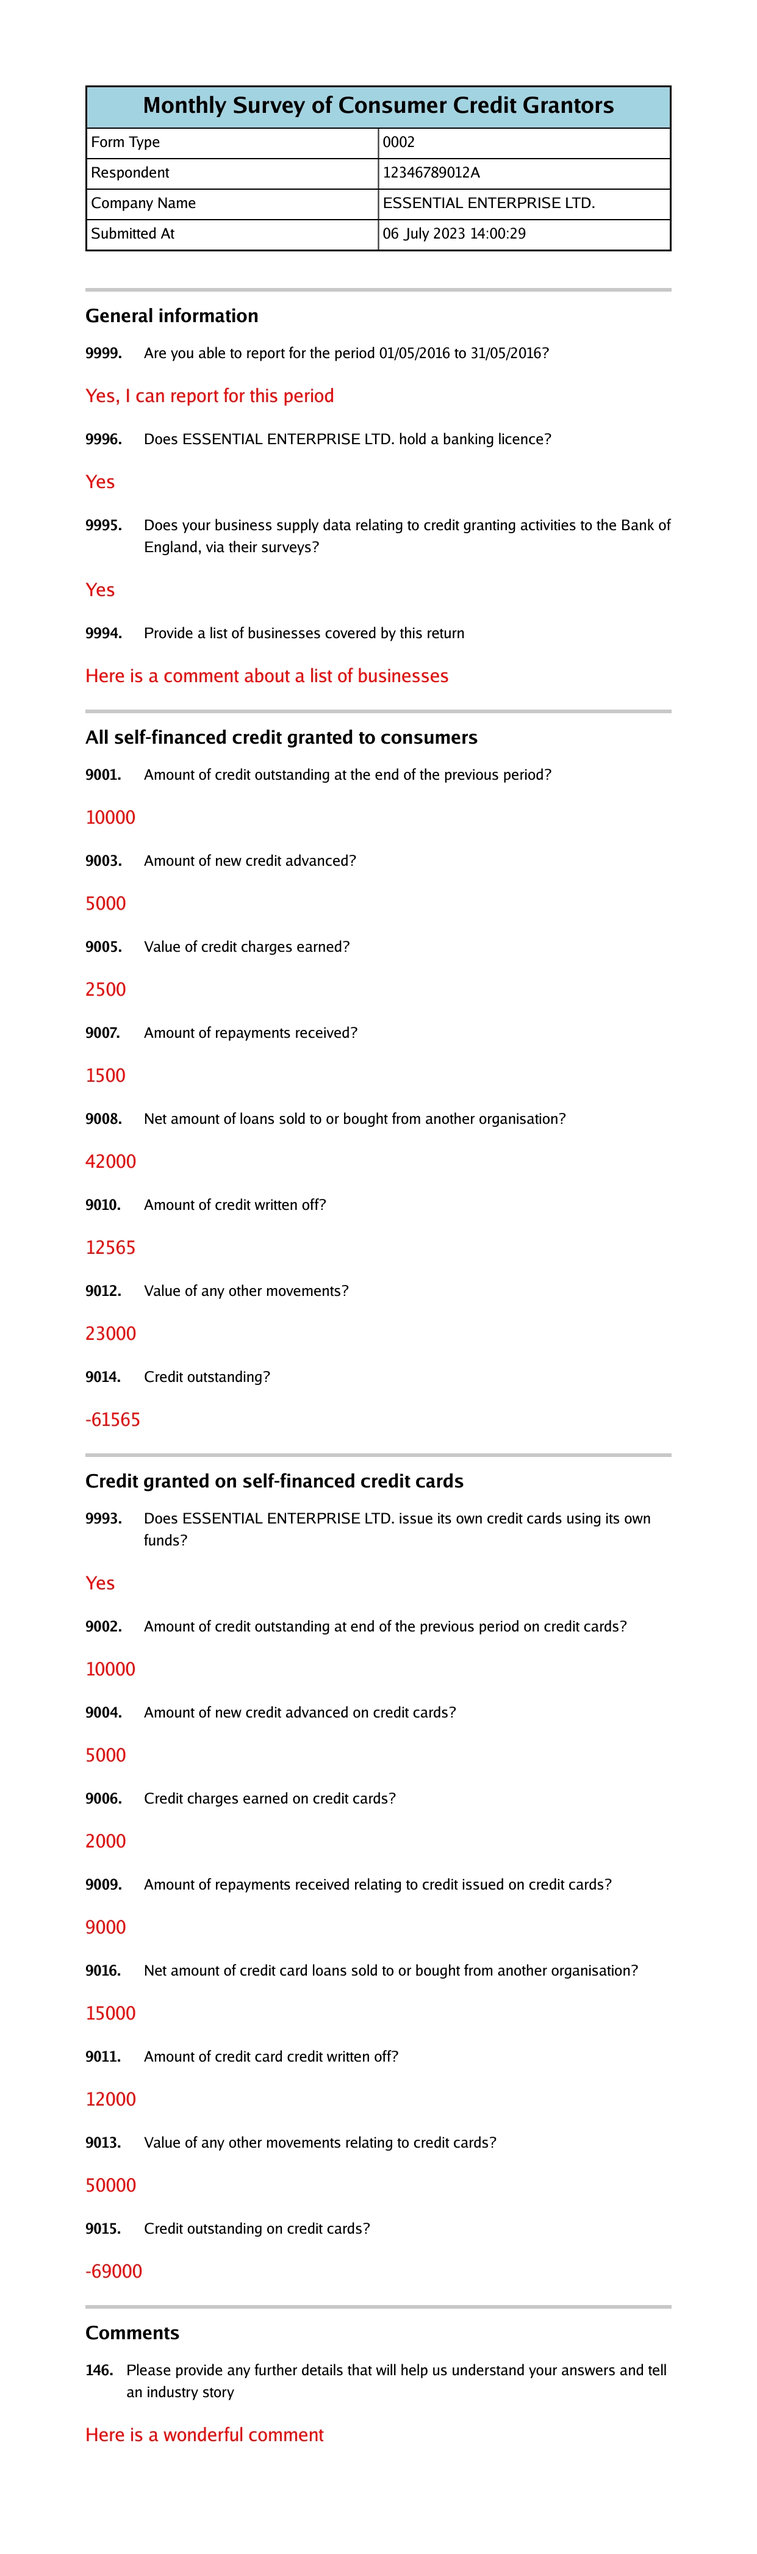
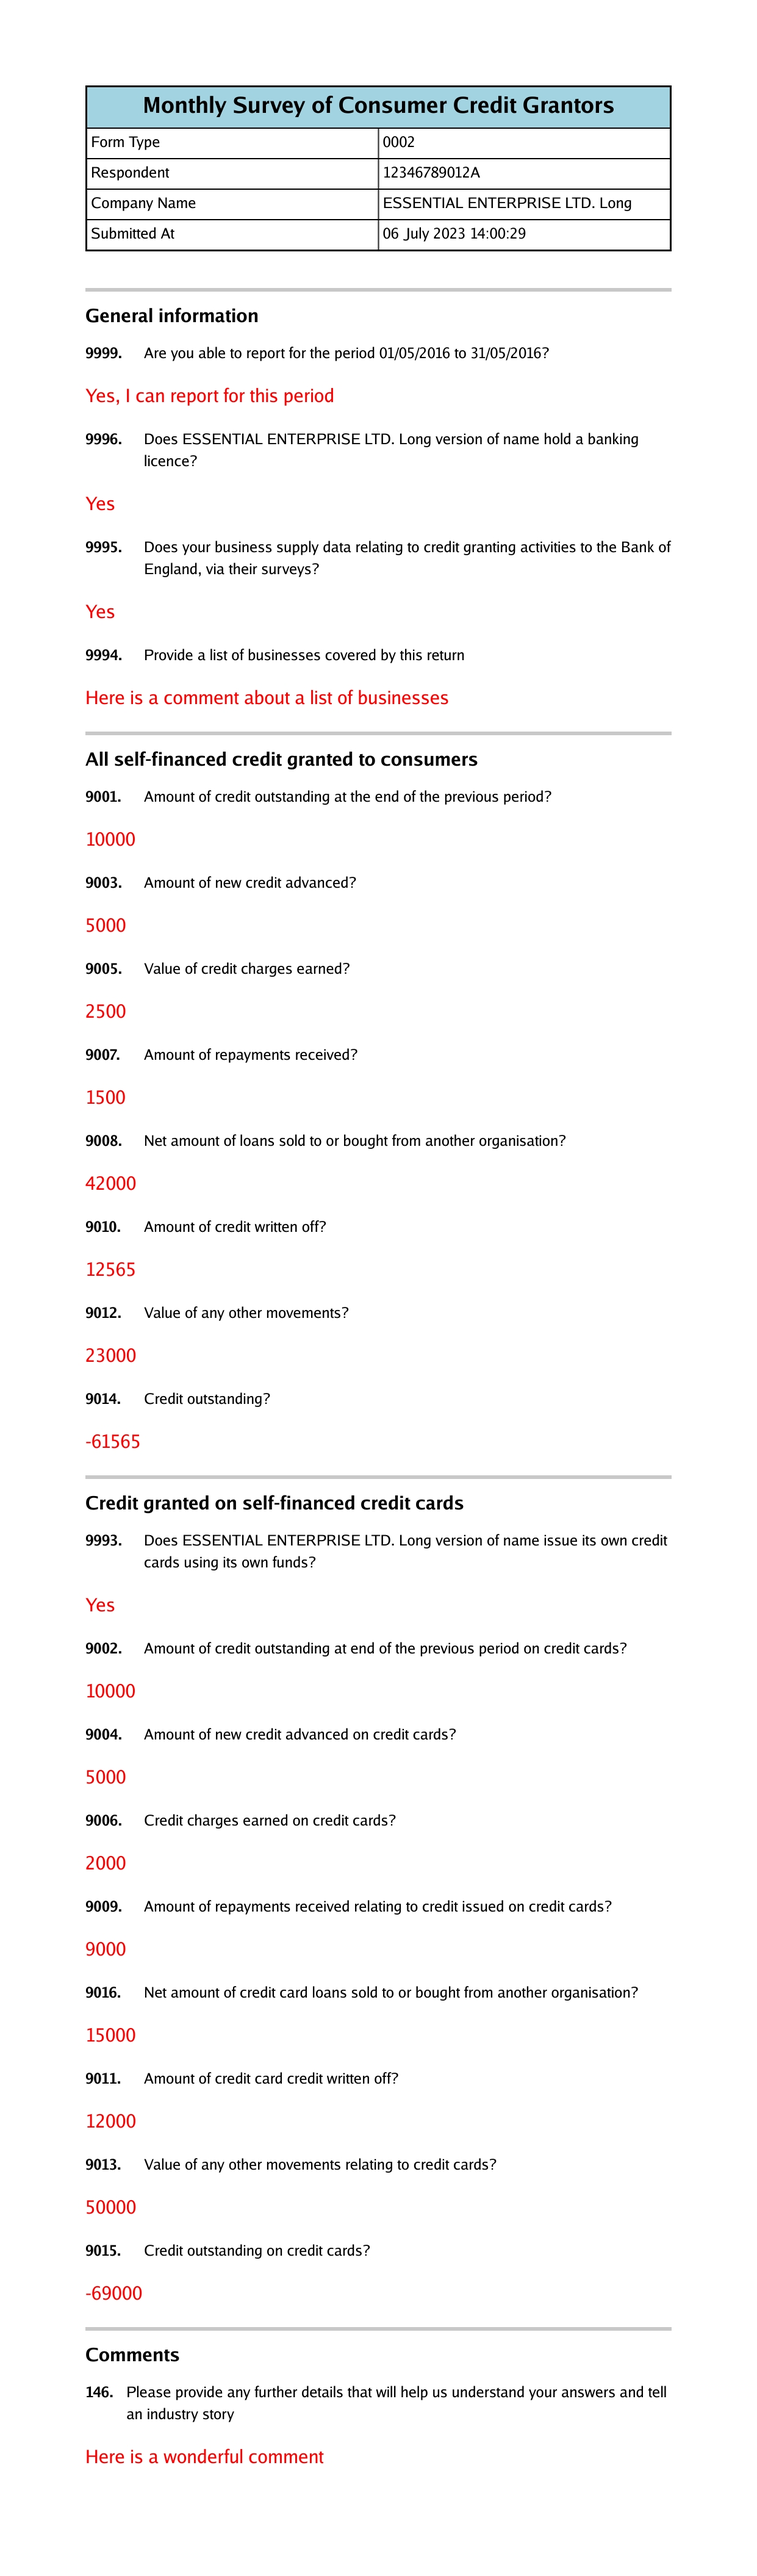
Restrict company name length in header

diff --git a/internal/page/heading.go b/internal/page/heading.go
@@ -39,7 +39,11 @@ func createHeading(header Header, canvas *drawing.Canvas, parent *drawing.Contai
 		t.SetTextAlign(drawing.TextLeft)
 	}
 
-	for _, value := range []string{header.FormType, header.RuRef, header.RuName, header.SubmittedAt} {
+	companyName := header.RuName
+	if len(companyName) > 30 {
+		companyName = companyName[:30]
+	}
+	for _, value := range []string{header.FormType, header.RuRef, companyName, header.SubmittedAt} {
 		c := canvas.AddContainer(drawing.MatchParent(), drawing.FitContent(), detailsRight)
 		c.SetBorder(drawing.BLACK, 1)
 		c.SetPaddingAll(padding)
